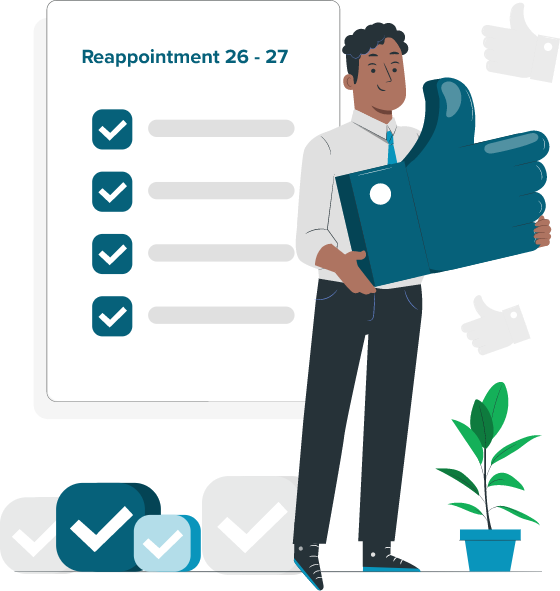
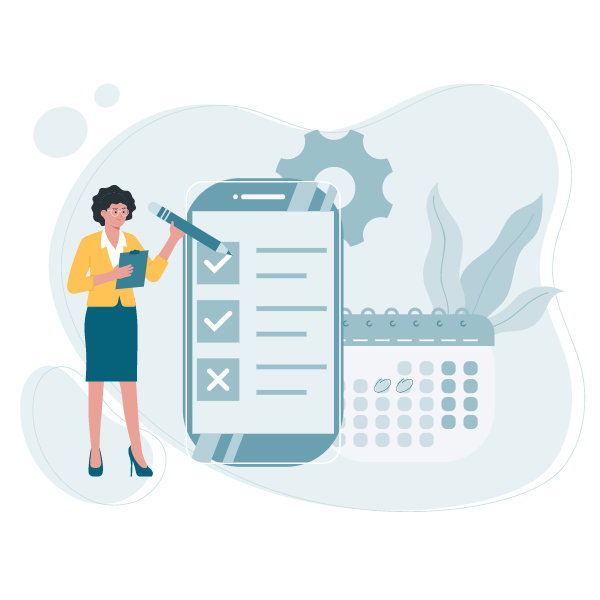
recent code

diff --git a/src/Screens/CAPManager/ReappointmentApplicationForm/PrivilegeSelection/index.js b/src/Screens/CAPManager/ReappointmentApplicationForm/PrivilegeSelection/index.js
@@ -53,6 +53,7 @@ import ESignDialog from "../../../../Components/ESignDialog";
 import { Tooltip } from "@mui/material";
 import MenuIcon from "@mui/icons-material/Menu";
 import Close from './../../../../images/close.png';
+import { FamilyRestroomOutlined } from "@mui/icons-material";
 
 const PrivilegeSelection = ({ basicForm, setBasicForm, getPreApplication, dateFormat }) => {
   const [isSigned, setIsSigned] = useState(false);
@@ -912,6 +913,8 @@ const PrivilegeSelection = ({ basicForm, setBasicForm, getPreApplication, dateFo
     const bothObligatedEmptyForForm =
       (!Array.isArray(currentObligatedForForm) || currentObligatedForForm.length === 0) &&
       (!Array.isArray(currentPriorObligatedForForm) || currentPriorObligatedForForm.length === 0);
+    const isFirstPrivilegeSetSubmitForForm =
+      !basicForm?.forms?.[formIndex]?.data?.privilegeSetChangeUpdated && isUpdated;
 
     if (isUpdated) {
       let mergedArray = [
@@ -931,12 +934,15 @@ const PrivilegeSelection = ({ basicForm, setBasicForm, getPreApplication, dateFo
       const bothObligatedEmpty =
         (!Array.isArray(currentObligated) || currentObligated.length === 0) &&
         (!Array.isArray(currentPriorObligated) || currentPriorObligated.length === 0);
+      const isFirstPrivilegeSetSubmit =
+        !basicForm?.forms?.[formIndex]?.data?.privilegeSetChangeUpdated && isUpdated;
       const hasCurrentObligated = Array.isArray(currentObligated) && currentObligated.length > 0;
-      const priorObligatedPrivileges = bothObligatedEmpty
-        ? []
-        : !basicForm?.forms?.[formIndex]?.data?.privilegeSetChangeUpdated
-          ? (hasCurrentObligated ? currentObligated : [])
-          : basicForm?.privileges?.priorObligatedPrivileges;
+      const priorObligatedPrivileges =
+        bothObligatedEmpty || isFirstPrivilegeSetSubmit
+          ? []
+          : !basicForm?.forms?.[formIndex]?.data?.privilegeSetChangeUpdated
+            ? (hasCurrentObligated ? currentObligated : [])
+            : basicForm?.privileges?.priorObligatedPrivileges;
 
       let temp = {
         obligatedPrivileges: isDelete ? privileges : mergedArray,
@@ -944,6 +950,12 @@ const PrivilegeSelection = ({ basicForm, setBasicForm, getPreApplication, dateFo
         priorAdditionalPrivileges: basicForm?.privileges?.priorAdditionalPrivileges,
         priorObligatedPrivileges,
       };
+      // let temp = {
+      //   obligatedPrivileges: [],
+      //   additionalPrivileges: basicForm?.privileges?.additionalPrivileges,
+      //   priorAdditionalPrivileges: basicForm?.privileges?.priorAdditionalPrivileges,
+      //   priorObligatedPrivileges: [],
+      // };
       console.log("data", temp);
       await POST(`application-management-service/application/${applicationId}/privileges`, temp)
     } else {
@@ -972,12 +984,14 @@ const PrivilegeSelection = ({ basicForm, setBasicForm, getPreApplication, dateFo
       data: {
         privilegeChangeYesOrNo: basicForm?.forms?.[formIndex]?.data?.departmentChangeYesOrNo !== undefined ? basicForm?.forms?.[formIndex]?.data?.departmentChangeYesOrNo : '',
         departmentChangeYesOrNo: basicForm?.forms?.[formIndex]?.data?.departmentChangeYesOrNo !== undefined ? basicForm?.forms?.[formIndex]?.data?.departmentChangeYesOrNo : '',
-        privilegeSetChangeYesOrNo: isUpdated ? (bothObligatedEmptyForForm ? 'No' : privilegeSetChangeYesOrNo) : 'Yes',
+        privilegeSetChangeYesOrNo: isUpdated ? (isFirstPrivilegeSetSubmitForForm ? 'No' : privilegeSetChangeYesOrNo) : 'Yes',
+        // privilegeSetChangeYesOrNo: '',
         additionalPrivilegeChangeYesOrNo: basicForm?.forms?.[formIndex]?.data?.additionalPrivilegeChangeYesOrNo !== undefined ? basicForm?.forms?.[formIndex]?.data?.additionalPrivilegeChangeYesOrNo : '',
         privilegeAtOtherHospitalYesOrNo: basicForm?.forms?.[formIndex]?.data?.privilegeAtOtherHospitalYesOrNo !== undefined ? basicForm?.forms?.[formIndex]?.data?.privilegeAtOtherHospitalYesOrNo : '',
         privilegeChangeUpdated: basicForm?.forms?.[formIndex]?.data?.privilegeChangeUpdated !== undefined ? basicForm?.forms?.[formIndex]?.data?.privilegeChangeUpdated : false,
         departmentChangeUpdated: basicForm?.forms?.[formIndex]?.data?.departmentChangeUpdated !== undefined ? basicForm?.forms?.[formIndex]?.data?.departmentChangeUpdated : false,
         privilegeSetChangeUpdated: true,
+        // privilegeSetChangeUpdated: false,
         additionalPrivilegeChangeUpdated: basicForm?.forms?.[formIndex]?.data?.additionalPrivilegeChangeUpdated !== undefined ? basicForm?.forms?.[formIndex]?.data?.additionalPrivilegeChangeUpdated : false,
         privilegeAtOtherHospitalUpdated: basicForm?.forms?.[formIndex]?.data?.privilegeAtOtherHospitalUpdated !== undefined ? basicForm?.forms?.[formIndex]?.data?.privilegeAtOtherHospitalUpdated : false,
       },
@@ -996,6 +1010,8 @@ const PrivilegeSelection = ({ basicForm, setBasicForm, getPreApplication, dateFo
     const bothAdditionalEmptyForForm =
       (!Array.isArray(currentAdditionalForForm) || currentAdditionalForForm.length === 0) &&
       (!Array.isArray(currentPriorAdditionalForForm) || currentPriorAdditionalForForm.length === 0);
+    const isFirstAdditionalPrivilegeSubmitForForm =
+      !basicForm?.forms?.[formIndex]?.data?.additionalPrivilegeChangeUpdated && isUpdated;
 
     if (isUpdated) {
       let mergedArray = [
@@ -1011,11 +1027,19 @@ const PrivilegeSelection = ({ basicForm, setBasicForm, getPreApplication, dateFo
       }, []);
 
       const currentAdditional = basicForm?.privileges?.additionalPrivileges;
+      const currentPriorAdditional = basicForm?.privileges?.priorAdditionalPrivileges;
+      const bothAdditionalEmpty =
+        (!Array.isArray(currentAdditional) || currentAdditional.length === 0) &&
+        (!Array.isArray(currentPriorAdditional) || currentPriorAdditional.length === 0);
+      const isFirstAdditionalPrivilegeSubmit =
+        !basicForm?.forms?.[formIndex]?.data?.additionalPrivilegeChangeUpdated && isUpdated;
       const hasCurrentAdditional = Array.isArray(currentAdditional) && currentAdditional.length > 0;
       const priorAdditionalPrivileges =
-        !basicForm?.forms?.[formIndex]?.data?.additionalPrivilegeChangeUpdated
-          ? (hasCurrentAdditional ? currentAdditional : [])
-          : basicForm?.privileges?.priorAdditionalPrivileges;
+        bothAdditionalEmpty || isFirstAdditionalPrivilegeSubmit
+          ? []
+          : !basicForm?.forms?.[formIndex]?.data?.additionalPrivilegeChangeUpdated
+            ? (hasCurrentAdditional ? currentAdditional : [])
+            : basicForm?.privileges?.priorAdditionalPrivileges;
 
       let temp = {
         obligatedPrivileges: basicForm?.privileges?.obligatedPrivileges,
@@ -1023,6 +1047,12 @@ const PrivilegeSelection = ({ basicForm, setBasicForm, getPreApplication, dateFo
         priorAdditionalPrivileges,
         priorObligatedPrivileges: basicForm?.privileges?.priorObligatedPrivileges
       };
+      // let temp = {
+      //   obligatedPrivileges: basicForm?.privileges?.obligatedPrivileges,
+      //   additionalPrivileges: [],
+      //   priorAdditionalPrivileges: [],
+      //   priorObligatedPrivileges: basicForm?.privileges?.priorObligatedPrivileges
+      // };
       console.log("data", temp);
       await POST(`application-management-service/application/${applicationId}/privileges`, temp)
     } else {
@@ -1052,12 +1082,14 @@ const PrivilegeSelection = ({ basicForm, setBasicForm, getPreApplication, dateFo
         privilegeChangeYesOrNo: basicForm?.forms?.[formIndex]?.data?.departmentChangeYesOrNo !== undefined ? basicForm?.forms?.[formIndex]?.data?.departmentChangeYesOrNo : '',
         departmentChangeYesOrNo: basicForm?.forms?.[formIndex]?.data?.departmentChangeYesOrNo !== undefined ? basicForm?.forms?.[formIndex]?.data?.departmentChangeYesOrNo : '',
         privilegeSetChangeYesOrNo: basicForm?.forms?.[formIndex]?.data?.privilegeSetChangeYesOrNo !== undefined ? basicForm?.forms?.[formIndex]?.data?.privilegeSetChangeYesOrNo : '',
-        additionalPrivilegeChangeYesOrNo: isUpdated ? (bothAdditionalEmptyForForm ? 'No' : additionalPrivilegeChangeYesOrNo) : 'No',
+        additionalPrivilegeChangeYesOrNo: isUpdated ? (isFirstAdditionalPrivilegeSubmitForForm ? 'Yes' : additionalPrivilegeChangeYesOrNo) : 'No',
+        // additionalPrivilegeChangeYesOrNo: '',
         privilegeAtOtherHospitalYesOrNo: basicForm?.forms?.[formIndex]?.data?.privilegeAtOtherHospitalYesOrNo !== undefined ? basicForm?.forms?.[formIndex]?.data?.privilegeAtOtherHospitalYesOrNo : '',
         privilegeChangeUpdated: basicForm?.forms?.[formIndex]?.data?.privilegeChangeUpdated !== undefined ? basicForm?.forms?.[formIndex]?.data?.privilegeChangeUpdated : false,
         departmentChangeUpdated: basicForm?.forms?.[formIndex]?.data?.departmentChangeUpdated !== undefined ? basicForm?.forms?.[formIndex]?.data?.departmentChangeUpdated : false,
         privilegeSetChangeUpdated: basicForm?.forms?.[formIndex]?.data?.privilegeSetChangeUpdated !== undefined ? basicForm?.forms?.[formIndex]?.data?.privilegeSetChangeUpdated : false,
         additionalPrivilegeChangeUpdated: true,
+        // additionalPrivilegeChangeUpdated: false,
         privilegeAtOtherHospitalUpdated: basicForm?.forms?.[formIndex]?.data?.privilegeAtOtherHospitalUpdated !== undefined ? basicForm?.forms?.[formIndex]?.data?.privilegeAtOtherHospitalUpdated : false,
       },
       unFilledFields: basicForm?.forms?.[formIndex]?.unFilledFields,
@@ -3861,20 +3893,7 @@ const PrivilegeSelection = ({ basicForm, setBasicForm, getPreApplication, dateFo
                       <div className={`${style.privilegeContentCard} ${style.marginTop10}`}>
                         <div className={`${style.privilegeHeadingCurrent}`}>Current</div>
                         {basicForm?.privileges?.priorAdditionalPrivileges?.length === 0 ? (
-                          <>
-                            {basicForm?.privileges?.additionalPrivileges?.length === 0 ? (
-                              <div className={style.privilegeHeading}>None</div>
-                            ) : (
-                              <>
-                                {basicForm?.privileges?.additionalPrivileges?.map(data => (
-                                  <div
-                                    className={`${style.privilegeHeading} `}
-                                  // onClick={() => { setShowCurrentPrivileges(true); handleChangeAdditional(data?.id); setCurrentPrivilegesCategory('Additional') }}
-                                  >{data?.privilegeSetTitle}</div>
-                                ))}
-                              </>
-                            )}
-                          </>
+                          <div className={style.privilegeHeading}>Not Available</div>
                         ) : (
                           <>
                             {basicForm?.privileges?.priorAdditionalPrivileges?.map(data => (

diff --git a/src/Components/ReappointmentLandingDialog/index.module.scss b/src/Components/ReappointmentLandingDialog/index.module.scss
@@ -585,7 +585,7 @@
 
 .reappointmentLandingImage {
     width: 100%;
-    height: 400px;
+    height: 350px;
     max-width: none;
     object-fit: contain;
 }